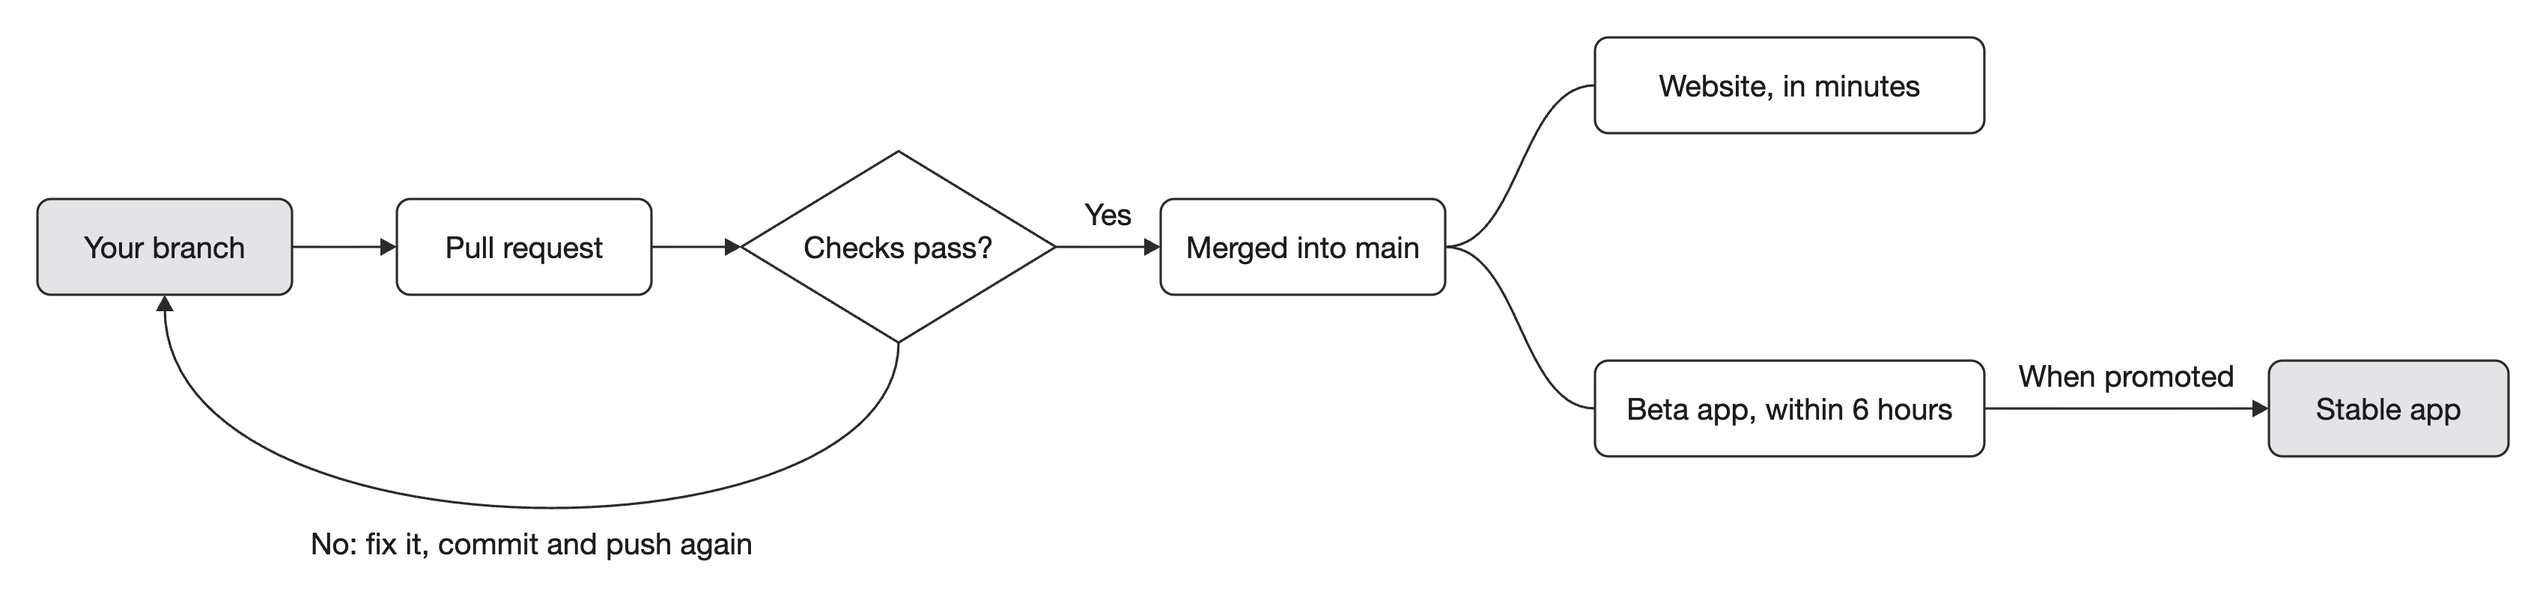
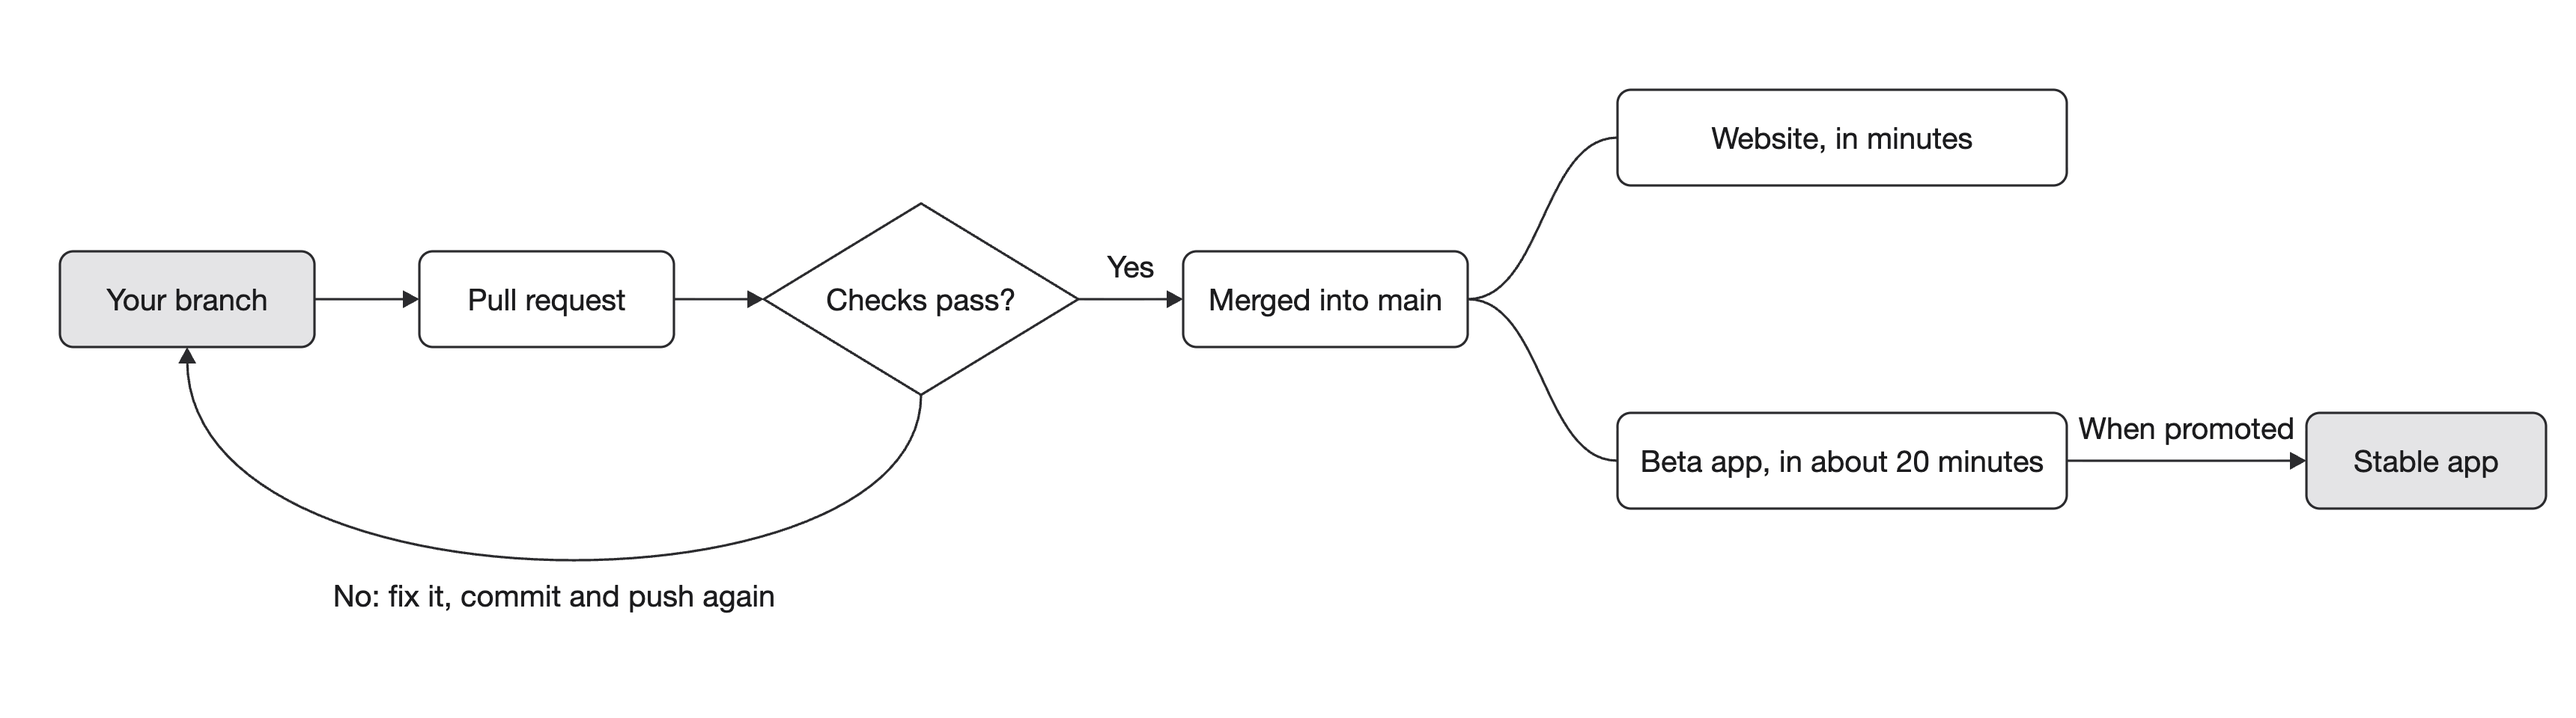
Publish a beta on every merge instead of every six hours
A beta waited for a half-hourly check and a six-hour gap after the last one.
Each merge into main now builds, checks and publishes a beta in about 20
minutes, so the app's Check for updates finds it right away.

diff --git a/desktop/tests/release-plan.test.ts b/desktop/tests/release-plan.test.ts
@@ -1,6 +1,6 @@
 import assert from "node:assert/strict";
 import test from "node:test";
-import { betaTarget, desktopReleases, MINIMUM_BETA_GAP_MS, planRelease } from "../scripts/release-plan.mjs";
+import { betaTarget, desktopReleases, planRelease } from "../scripts/release-plan.mjs";
 
 const NOW = Date.parse("2026-10-26T12:00:00Z");
 const published = (tag: string, hoursAgo: number, prerelease = tag.includes("-beta.")) =>
@@ -9,7 +9,7 @@ const published = (tag: string, hoursAgo: number, prerelease = tag.includes("-be
 function plan(overrides: Partial<Parameters<typeof planRelease>[0]> = {}) {
   const compared: string[][] = [];
   const run = planRelease({
-    event: "schedule", channel: "", ref: "refs/heads/main", sha: "a".repeat(40), now: NOW, date: "20261026", run: 57,
+    event: "push", channel: "", ref: "refs/heads/main", sha: "a".repeat(40), now: NOW, date: "20261026", run: 57,
     packageVersion: "0.1.0", releases: [],
     compare: async (base: string, head: string) => { compared.push([base, head]); return "ahead"; },
     commitOf: async (tag: string) => `sha-of-${tag}`,
@@ -29,17 +29,13 @@ test("the first beta previews the package version; later ones preview the patch 
   assert.throws(() => betaTarget("0.3.0-beta.1", null));
 });
 
-test("a scheduled beta waits six hours after the last one and needs new commits on main", async () => {
-  const recent = await plan({ releases: [published("v0.1.0-beta.20261026.50", 2)] });
-  assert.equal((await recent.run).build, false);
-  assert.deepEqual(recent.compared, [], "nothing is compared inside the gap");
+test("every merge into main is a beta right away, unless the last beta already ships that commit", async () => {
+  const minutesLater = plan({ releases: [published("v0.1.0-beta.20261026.50", 0.1)] });
+  assert.equal((await minutesLater.run).build, true, "no waiting period between betas");
+  assert.deepEqual(minutesLater.compared, [["v0.1.0-beta.20261026.50", "a".repeat(40)]]);
 
-  const stale = plan({ releases: [published("v0.1.0-beta.20261025.50", MINIMUM_BETA_GAP_MS / 3_600_000 + 1)], compare: async () => "identical" });
-  assert.equal((await stale.run).build, false);
-
-  const due = plan({ releases: [published("v0.1.0-beta.20261025.50", 7)] });
-  assert.equal((await due.run).build, true);
-  assert.deepEqual(due.compared, [["v0.1.0-beta.20261025.50", "a".repeat(40)]]);
+  const same = plan({ releases: [published("v0.1.0-beta.20261026.50", 1)], compare: async () => "identical" });
+  assert.equal((await same.run).build, false);
 
   const manual = await plan({ event: "workflow_dispatch", channel: "beta", releases: [published("v0.1.0-beta.20261026.50", 1)], compare: async () => "identical" }).run;
   assert.equal(manual.build, true, "a manual beta builds now");

diff --git a/README.md b/README.md
@@ -554,12 +554,12 @@ A few words first, if you haven't used Git or GitHub before:
 - **Checks:** tests that GitHub runs on every pull request, on Linux, macOS and Windows. A red check means something broke.
 - **Merge:** adding the pull request's commits to `main`. Only the project owner merges, and GitHub then deletes the branch.
 
-![A change goes from your branch to a pull request, through the checks, into main. Main updates the website and, within about six hours, a beta release. A stable release comes later, when the team promotes a beta](docs/readme/release-flow.png)
+![A change goes from your branch to a pull request, through the checks, into main. Main updates the website within minutes and the beta app in about 20 minutes. A stable release comes later, when the team promotes a beta](docs/readme/release-flow.png)
 
 Once a pull request is merged into `main`:
 
 1. **The website** updates by itself within a few minutes. Vercel, the service that hosts it, deploys only `main`.
-2. **A beta release of the desktop app** follows within about six hours. Every 30 minutes, GitHub checks `main`. When it has new changes and the last beta is at least six hours old, it builds the app for macOS and Windows, tests it, and publishes it as a beta, such as `v0.1.1-beta.20261026.57`. Anyone using a beta gets it as an update.
+2. **A beta release of the desktop app** follows in about 20 minutes. Every merge into `main` makes GitHub build the app for macOS and Windows, test it, and publish it as a beta, such as `v0.1.1-beta.20261026.57`. Anyone using a beta gets it the next time they select **Check for updates** in Settings, or by itself the next time the app opens.
 3. **A stable release** comes later, when the team decides a beta is good. Stable releases, such as `v0.1.1`, go to everyone else. A stable is always the exact code of a beta that people already used.
 
 ### Make a change and test it on your computer
@@ -690,7 +690,7 @@ The desktop app has two kinds of release, like T3 Code's nightly and stable buil
 | --- | --- | --- |
 | For | Testers who want changes early | Everyone else |
 | Contains | Everything merged into `main` | A beta that the team has checked |
-| Published | By itself, at most every six hours, after a merge | When the team promotes a beta |
+| Published | By itself, about 20 minutes after each merge | When the team promotes a beta |
 | Named like | `v0.1.1-beta.20261026.57` | `v0.1.1` |
 | On GitHub | Marked **Pre-release** | Marked **Latest** |
 

diff --git a/docs/desktop.md b/docs/desktop.md
@@ -90,9 +90,9 @@ The updater does not need code signing. Electron's built-in updater on macOS (Sq
 
 ### Beta and stable releases
 
-Batatis has two release channels, after T3 Code's nightly and stable builds.
+Batatis has two release channels, after T3 Code's nightly and stable builds, except that a beta ships on every merge rather than on a schedule.
 
-- **Beta** gets merged pull requests. Every 30 minutes the **Desktop native acceptance** workflow checks `main`. When `main` has commits the last beta lacks and the last beta is at least six hours old, it builds, checks and publishes a beta: a GitHub prerelease named like `v0.1.1-beta.20261026.57` (the stable version it previews, the date and the run number). To publish one right away, run the workflow from **Actions** with the **beta** channel.
+- **Beta** gets every merged pull request. Each merge into `main` starts the **Desktop native acceptance** workflow, which builds, checks and publishes a beta in about 20 minutes: a GitHub prerelease named like `v0.1.1-beta.20261026.57` (the stable version it previews, the date and the run number). To publish one again without a merge, run the workflow from **Actions** with the **beta** channel.
 - **Stable** gets what beta users already ran. When a beta looks good, run the workflow from **Actions** on `main` with the **stable** channel. It builds the latest beta's exact commit and publishes it as `v0.1.1`, the version that beta previewed, with notes since the previous stable.
 
 An installed app follows the channel it came from. A stable install only updates to stable releases. A beta install updates to newer betas and to stable releases, so it moves to `0.1.1` when that ships. To try betas, download one from the [releases page](https://github.com/simplythatguy/batatis/releases).
